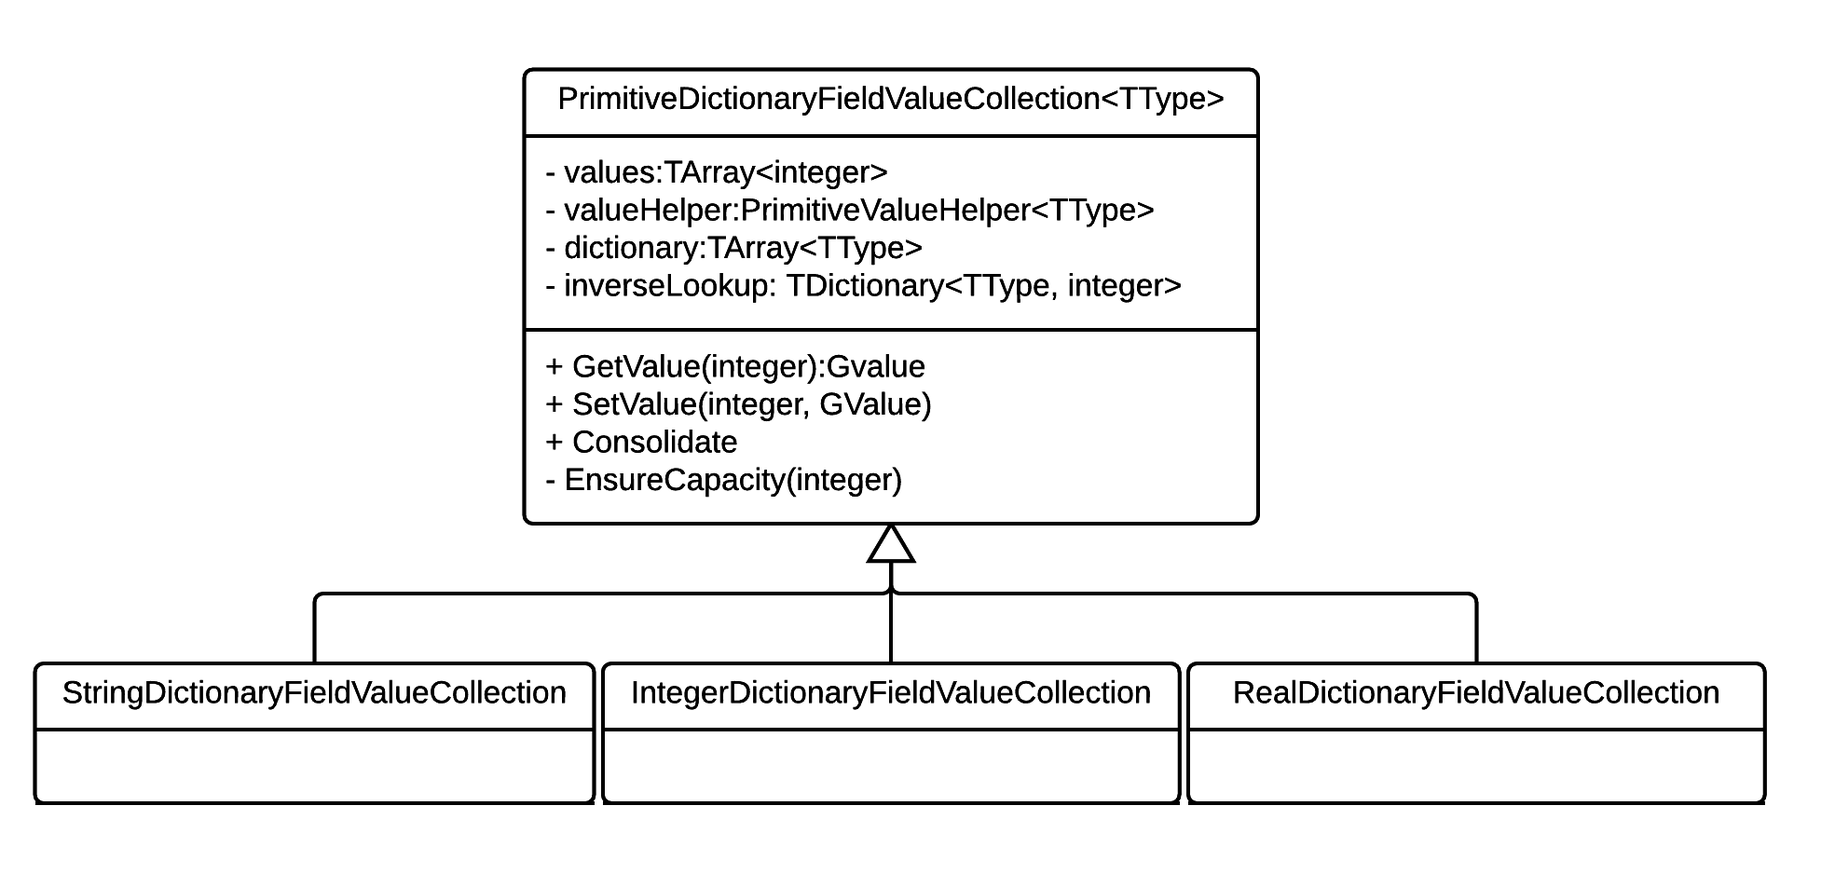
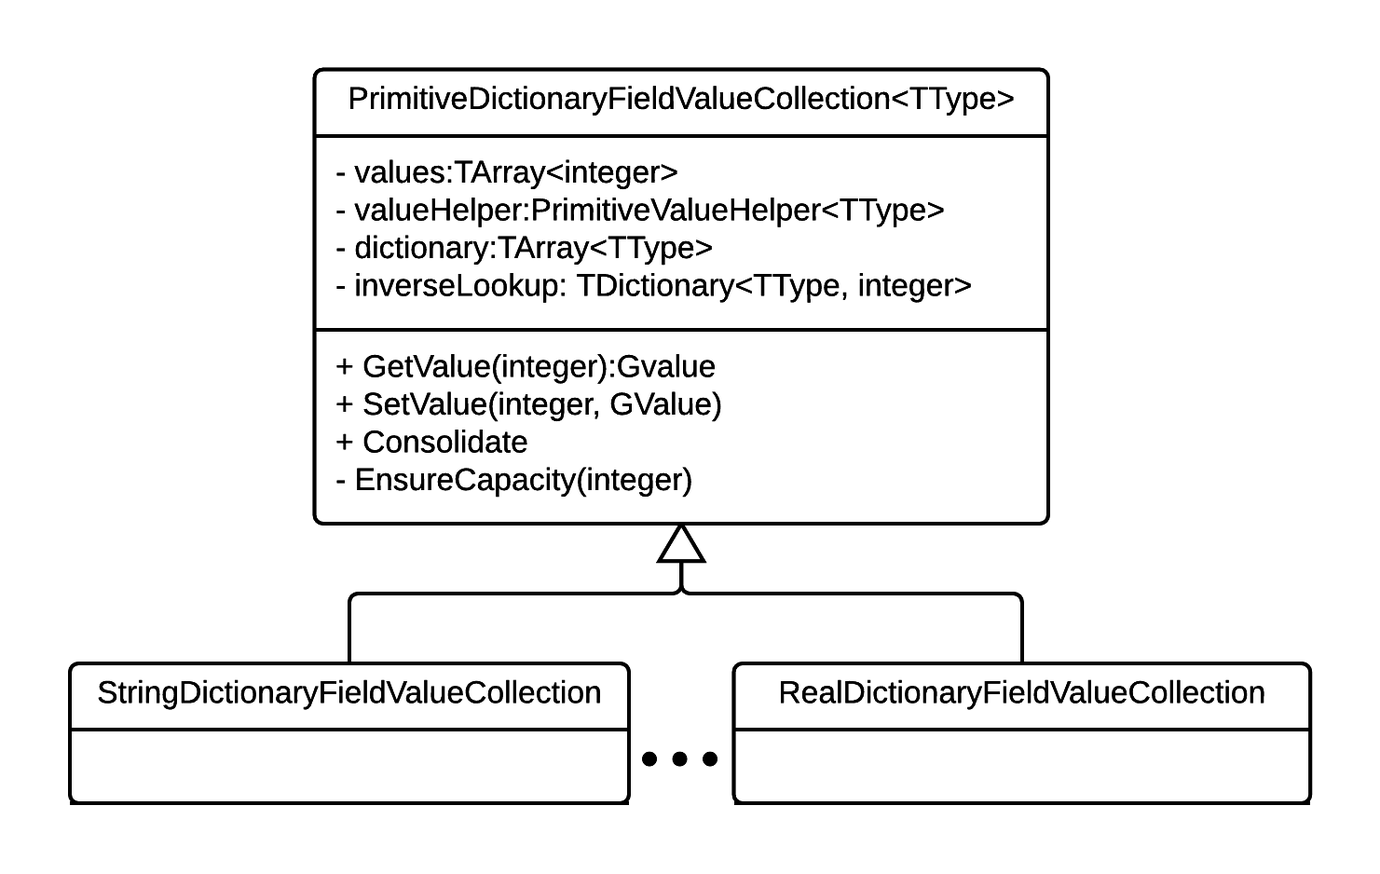
tete

diff --git a/implementation/compression.tex b/implementation/compression.tex
@@ -14,54 +14,54 @@ One such light-weight compression technique, is \textit{dictionary encoding}, wh
 
 The second technique we implement in this iteration is bitpacking, which we studied in Section \ref{sec:Bitpacking}. In this compression scheme, no more bits than needed are used to store a value. This improves cache hit-rate and enables SIMD query processing. Bitpacking and dictionary encoding are commonly used in conjunction, and this what we will do in this iteration.
 
-Last, we explore two techniques to save even more memory in \gap. The first is a technique we denote as \textit{null-pointer compression}. It is based on the observation that a \cn{CompositionObject} has several properties, properties that are commonly \nil. Thus, by moving the properties to the column store, we may save space by not allocating any values unless they are set. The second technique we apply is to compress the residual properties in a \cn{packed record}.
+Last, we explore two techniques to save even more memory in \gap. The first is a technique we denote as \textit{null-pointer compression}. It is based on the observation that a \cn{CompositionObject} has several properties, properties that are commonly \null. Thus, by moving the properties to the column store, we may save space by not allocating any values unless they are set. The second technique we apply is to compress the residual member variables in the \cn{CompositionObject} class with a \cn{packed record}.
 
 \section{Implementation}
 \label{sec:Implementation}
-In this section, we explain how compression is implemented by creating new \cn{FieldValueCollectionBase} subclasses and modifying the column store. We start with dictionary encoding and bitpacking. Then we proceed with null-pointer compression and property packing.
+In this section, we explain how compression is implemented by creating new \cn{FieldValueCollectionBase} subclasses for dictionary encoding. Then we proceed with null-pointer compression and property packing.
 
 \subsection{Dictionary Encoding}
-\label{sub:Dictionary Encoding}
+\label{compression:dictionary-encoding}
 % Short introduction on DE
-In Section \ref{sec:Dictionary Encoding}, we saw that dictionary encoding is commonly used to store data in a database, especially read-optimized ones. Such encoding has several benefits, with the main being compression. Some operations are also speeded up by this storage format, especially string predicates. To do a select operation on a dictionary encoded column, the dictionary needs only to be scanned once to find the keys corresponding to the query, then the integer array is scanned. This reduces expensive string operations into cheap integer comparisons.
+In Section \ref{sec:Dictionary Encoding}, we saw that dictionary encoding is commonly applied as a compression technique in OLAP-databases. There are many benefits with dictionary encoding in addition to a reduction in memory usage, like improved data locality and query speedup. For instance, expensive string operations can be reduced to cheap integer comparisons by scanning the dictionary for keys first.
 
-In a dictionary encoded column, the dictionary can be structured either for read or write performance. For read operations, there is a lookup from a dictionary index and the actual value. For such operations, implementing the dictionary as a list would suffice, adding new keys to the end of the list as they appear. Hence, lookups happen in constant time. However, with this implementation, assuming that the dictionary is not sorted, a linear search through the dictionary is triggered every time there is a write operation to the column, because the correct dictionary key must be found. 
+In a dictionary encoded column, the dictionary can be structured either for read or write performance, or both. For read performance, there must exist a lookup from a dictionary index to the actual value. For such lookup, a simple index-based list suffices, adding new keys to the end of the list as they appear. Hence, value lookups happen in constant time. However, with this implementation, a linear search to find the correct key in the dictionary is performed every time there is a write operation on the column. Here, an inverse lookup from dictionary values to indexes would be beneficial.
 
-\afigure{img/dict-inverse.png}{Dictionary Encoding. There exists a constant time lookup mechanism not only from dictionary keys to values, but also a lookup mechanism from values to dictionary keys.}{fig:dict-inverse}{0.8}
-Since data sources in \gap~can be used in many different places, some write-intense, others read-intense, we implement a dictionary that can do both read and write operations in constant time. This comes at the cost of increased memory; a mapping from values to keys must be maintained. This is depicted in Figure \ref{fig:dict-inverse}. For the value-to-key lookup, a dictionary is used, such that lookups can be performed in constant time. When \fn{Consolidate} is called, the inverse dictionary lookup is discarded to save memory. 
+\afigure{img/dict-inverse.png}{Dictionary encoded column implementation. Both value buffer and dictionary are stored using \cn{TArray}. To ensure constant time write operations, we keep an inverse lookup from values to dictionary keys, which is implemented as a \cn{TDictionary}. Read-only data sources may drop the inverse lookup to save memory.}{fig:dict-inverse}{1.0}
+Since \gap~must handle both transactional and analytical workloads, we implement a dictionary encoded column with both lookup structures, such that both read and write operations happen in constant time. We have depicted this in Figure \ref{fig:dict-inverse}. However, keeping both structures comes at the cost of increased memory. Thus, for read-only workloads, like \gd, we would like to discard the inverse lookup. We implement this in \fn{Consolidate}; when this function is called, we deallocate the inverse lookup.
 
-The integer array, or value buffer, uses the same growth strategy as previous implementations. Like \cn{FieldValueCollection} and \cn{PrimitiveFieldValueCollection}, buffers are doubled on index overflow. The \fn{Consolidate} resizes the key array to the correct size after the data source has been loaded.
+\afigure{img/PrimitiveDictionaryFieldValueCollection.png}{\cn{PrimitiveDictionaryFieldValueCollection} class diagram. The class inherits from \cn{FieldValueCollectionBase}, and has a subclass for each supported primitive type.}{fig:PrimitiveDictionaryFieldValueCollection}{0.9}
+We implement a new class, \cn{PrimitiveDictionaryFieldValueCollection}, to be our dictionary encoded column class. The class uses \cn{TArray} for both values, or dictionary keys, and the dictionary itself. We chose this array type based on the performance assessment from Appendix \ref{app:array-types}. For the inverse lookup, we use a \cn{TDictionary}. For different primitive types, \cn{PrimitiveDictionaryFieldValueCollection} has a subclass for each supported type which uses the same value helper as we introduced in the previous section. \cn{PrimitiveDictionaryFieldValueCollection} extends \cn{FieldValueCollectionBase}. A full class diagram is shown in Figure \ref{fig:PrimitiveDictionaryFieldValueCollection}.
 
-\afigure{img/PrimitiveDictionaryFieldValueCollection.png}{\cn{PrimitiveDictionaryFieldValueCollection} class diagram. The class inherits from \cn{FieldValueCollectionBase}.}{fig:PrimitiveDictionaryFieldValueCollection}{1.0}
-We chose to implement the dicitonary and inverse lookup using \cn{TArray} and \cn{TDictionary} respectively. We also chose to store values as their primitive implementation, like we investigated in Chapter \ref{chap:storage-format}. The class inherits from \cn{FieldValueCollectionBase}, and uses the same primitive value helper delegate class as \cn{PrimitiveDictionaryFieldValueCollection}.
+The array with dictionary keys, or value buffer, uses the same growth strategy as we discussed in Section \ref{sub:Growth Strategy}. Like \cn{FieldValueCollection} and \cn{PrimitiveFieldValueCollection}, the value buffer is doubled on index overflow, and the \fn{Consolidate} method resize the column to the exact data source size.
 
 \subsection{Bitpacking}
 \label{sub:Bitpacking}
+
 % Short introduction on bp
 Bitpacking is a compression technique where values are stored with no more bits than needed. As we saw in Section \ref{sub:Dictionary Encoding and Bitpacking}, dictionary encoding and bitpacking goes hand in hand. We, therefore, implement bitpacking in our dictionary encoded columns to save memory.
 
 % Main implementation
-\afigure{img/bp-overflow.png}{Bitpacking overflow. First, the value buffer is rebuilt to accomodate a new key in the dictionary that caused an overflow. Here, the array contents are copied to another buffer with extra padding. Second, if needed, a new cell is added for the new value.}{fig:bp-overflow}{1.0}
-The value buffer is implemented as an array of 64-bits values which each value is denoted as a \textit{cell}. Unlike previous column implementations, a cell is added one at a time, instead of the doubling strategy. This was done for simplicity reasons. Depending on the number of bits used per value, this means that more values can be added per reallocation. On dictionary overflow, the new number of bits per value is calculated, and the entire value buffer is rebuilt. Both buffer and dictionary overflow is depicted in Figure \ref{fig:bp-overflow}. Like the non-packed version, \cn{PrimitivePackedDictionaryFieldValueCollection} uses an inverse lookup which are discarded on \fn{Consolidate}.
+\afigure{img/bp-overflow.png}{Bitpacked value buffer. First, we see a dictionary overflow, where the value buffer is rebuilt with extra padding. Second, if needed, a new cell is added to hold the new value.}{fig:bp-overflow}{1.0}
+We implement the value buffer as an array of 8 byte chucks, where we denote each chunk as a \textit{cell}. Unlike previous column implementations, a cell is added one at a time, instead of using a doubling strategy. We did this for simplicity reasons, and, since each cell contains multiple values, array reallocation happens less frequent than for an uncompressed column.
 
-% Dictionary overflow
-One of the main challenges with bitpacking, is word alignment. If keys are allowed to cross word boundaries, not only performance might degrade, but it increase implementation and code complexity. Therefore, we take a simpler approach, where the number of bits used to store each value must be a power of 2. As seen in Figure \ref{fig:bp-overflow}, a dictionary overflow causes the bits per value to go from two to four to avoid values stored across word boundaries.
+One of the main challenges with bitpacking, is word alignment. If keys are allowed to cross machine word boundaries, not only performance will suffer, but the implementation complexity increase drastically. Therefore, we take a simpler approach, where the number of bits used to store each value must be a power of 2. As seen in Figure \ref{fig:bp-overflow}, a dictionary overflow causes the bits per value to go from two to four to avoid values stored across machine word boundaries. When a dictionary overflows, the columns rebuilds the entirev value buffer using the new number of bits per value.
 
-\afigure{img/PrimitivePackedDictionaryFieldValueCollection.png}{\cn{PrimitivePackedDictionaryFieldValueCollection} class diagram. The class is very similar to \cn{PrimitiveDictionaryFieldValueCollection}, but it has a different storage structure for its values.}{fig:PrimitivePackedDictionaryFieldValueCollection}{0.7}
-The bitpacked column class was implemented using a \cn{TArray<UInt64>} for storing data. Like the non-packed version, a \cn{TArray} was used for the dictionary and \cn{TDictionary} for the inverse lookup. In addition to this, it holds some state regarding the bitpacking, and a private function \fn{IncreaseDictionaryCapacity} which rebuilds the value buffer on dictionary overflow. The class diagram is seen in Figure \ref{fig:PrimitivePackedDictionaryFieldValueCollection}.
+\afigure{img/PrimitivePackedDictionaryFieldValueCollection.png}{\cn{PrimitivePackedDictionaryFieldValueCollection} class diagram. The class is very similar to \cn{PrimitiveDictionaryFieldValueCollection}, but it has a different storage structure for its values and holds some state variables needed for bitpacking.}{fig:PrimitivePackedDictionaryFieldValueCollection}{0.7}
+We name our bitpacked dictionary encoded column class \cn{PrimitivePackedDictionaryFieldValueCollection}, and, like always, the class inherits from \cn{FieldValueCollectionBase}. The value buffer was implemented using a \cn{TArray<UInt64>}. Like the non-packed version, a \cn{TArray} was used for the dictionary and \cn{TDictionary} for the inverse lookup. In addition to this, the class holds some state regarding the bitpacking, and a private function \fn{IncreaseDictionaryCapacity} which rebuilds the value buffer on dictionary overflow. The class diagram is seen in Figure \ref{fig:PrimitivePackedDictionaryFieldValueCollection}.
 
-\missingfigure{Figur om hvordan man henter ut verdier med masken?}
+\subsection{Null Pointer Compression}
+\label{sub:Null Pointer Compression}
 
-\subsection{Null-Pointer Compression}
-\label{sub:Null-Pointer Compression}
-\afigure{img/null-pointer-compression.png}{Null-pointer compression. Based on the observation that most \cn{CompositionObject} properties are normally \texttt{null}, data can be compressed, since columns are not created before the properties are set.}{fig:null-pointer-compression}{0.7}
-So far, we have compressed data from the Information System and Information System Development Layers. However, there are several other structures used by \cn{CompositionObject}s which are used in the Method Engineering layer. These structures include lists of data validation and integrety errors, formatting rules, and more. These attributes are not fundamentally different than attributes from the other model-driven engineering layers, which means we are able to put these pointers into our column store. Although one might initially think that we have only moved the problem, and that the pointers now are stored in the column store instead of at object-level, the compression is based on the observation that these pointers are normally \texttt{null}. This means that these columns does not need to be allocated before a value is actually set. An illustration of this is seen in Figure \ref{fig:null-pointer-compression}.
+\afigure{img/null-pointer-compression.png}{Null pointer compression. Based on the observation that most \cn{CompositionObject} properties are normally \nil, data can be compressed by not allocating value buffers until the properties are set.}{fig:null-pointer-compression}{0.9}
 
-To enable null pointer compression, we implement a new generic column structure named \cn{DefaultObjectList<TType>}. This is an array structure that can be instantiated with any class type, that will return \texttt{nil} if no values are set. If values are set, the array is allocated. The \cn{CompositionValueCollection} are extended with such attributes for all properties needed in the \cn{CompositionObject}s with corresponding get and set methods that requires datasource index as input.
+So far, we have compressed data from the Information System and Information System Development Layers. However, there are several other structures that belong to \cn{CompositionObject}s which are used in the Method Engineering layer. These structures include lists of data validation and integrity errors, formatting rules, and more. Our observation is that these attributes are not fundamentally different from attributes from the other model-driven engineering layers, which means we are able to put these pointers into our column store too. Although one might initially think that we have only moved the problem and that the pointers now are stored in the column store instead in the composition objects, we may save memory based on the observation that these pointers are usually \nil. In other words, these pointer columns do not need to be allocated before any values are set. We illustrate this scenario in Figure \ref{fig:null-pointer-compression}.
+
+To enable null pointer compression, we implement a new generic column structure named \cn{DefaultObjectList<TType>}. This class is an array structure that can be instantiated with any class type that will return \nil~if no values are set. If values are set, the array, or column, is allocated to accommodate these values. We extend the base column store class, \cn{CompositionValueCollection}, with one such \cn{DefaultObjectList} for each pointer variable in \cn{CompositionObject}. Hence, objects must now query the column store and provide a data source index to access structures used in the method engineering layer, like validation errors and formatting rules. A total of six member variables from \cn{CompositionObject} was moved to the column store.
 
 \subsection{Property Packing}
 \label{sub:Property Packing}
-\begin{delphicode}{Structure with packed data.}{lst:packed-struct}
+\begin{delphicode}{Structure with packed data for \cn{CompositionObject}.}{lst:packed-struct}
 PackedComObjData = packed record
     modifyCount,
     datasourceIndex    : integer; 
@@ -69,38 +69,46 @@ PackedComObjData = packed record
     filterStatus       : EFilterStatus;
 end;
 \end{delphicode}
-Some properties on a \cn{CompositionObject} are always set. This include a modified counter, some state variables, and of course the data source index. To reduce the memory footprint used by these attributes, they are packed in a struct using \delphi's \fn{packed} keyword. See Listing \ref{lst:packed-struct}. This packs the data and tells the compiler to disregard word boundaries \cite{noauthor_undated-vu}.
+In the last section, we saw how null pointers could be compressed by moving member variables in \cn{CompositionObject} to the column store. However, the \cn{CompositionObject} class has some value type properties that are always set, which includes a modify count, some state variables, and the much-needed data source index. Since these variables are always set, they cannot be compressed with null pointer compression.
 
-For this to work, the attributes is removed from the \cn{CompositionObject} class and moved to a \cn{PackedComObjData} record type. All read and write properties in \cn{CompositionObject} is rewritten to access this new structure.
+To reduce the memory footprint used by these attributes, we compress them in a \delphi~record type with the \vn{packed} keyword. This keyword tells the compiler to pack data and disregard word boundaries \cite{noauthor_undated-vu}. Thus, we take all the residual properties from the \cn{CompositionObject} class and move it to a \cn{PackedComObjData} record type. Listing \ref{lst:packed-struct} shows the structure.
 
-After applying both null-pointer compression from Section \ref{sec:Null-Pointer Compression}, a \cn{CompositionObject} has no attributes except for a pointer to the column storage and a packed struct with essential state data. \todo{Vet dette ikke er helt sant, men kan jeg skrive det?}
+As a result of both null pointer compression from Section \ref{sec:Null Pointer Compression} and the property packing from this section, a \cn{CompositionObject} has no member variables except for the \cn{PackedComObjData} record and a pointer to the column store.
 
 \section{Results}
 \label{sec:Results}
-We test the changes from this iteration with Benchmark \ref{bm:q1} and Benchmark \ref{bm:write}. Like the previous two iterations, we are curious to see how compression techniques affect memory consumption, load time, read performance, and write performance. 
+We test the changes from this iteration with the \tpchdl, Benchmark \ref{bm:q1} and the \textit{Write Benchmark}, Benchmark \ref{bm:write}. Like the previous two iterations, we are curious to see how compression techniques affect memory consumption, load time, read performance, and write performance. 
+
+
 
 \begin{table}
     \begin{tabularx}{\textwidth}{X | X X}
         & Distinct Values & Dictionary Encoding? \\ 
         \hline
         \hline
-        LINEITEMKEY & 600,000 & No \\
-        LINESTATUS & 3 & Yes \\
-        RETURNFLAG & 3 & Yes \\
-        SHIPDATE & 2526 & Yes \\
-        QUANTITY & 50 & Yes \\
-        EXTENDEDPRICE & 598,966 & No \\
-        DISCOUNT & 11 & Yes \\
-        TAX & 9 & Yes
+        \texttt{LINEITEMKEY} & 600,000 & No \\
+        \texttt{LINESTATUS} & 3 & Yes \\
+        \texttt{RETURNFLAG} & 3 & Yes \\
+        \texttt{SHIPDATE} & 2526 & Yes \\
+        \texttt{QUANTITY} & 50 & Yes \\
+        \texttt{EXTENDEDPRICE} & 598,966 & No \\
+        \texttt{DISCOUNT} & 11 & Yes \\
+        \texttt{TAX} & 9 & Yes
     \end{tabularx}
-    \caption{Column selection for Benchmark \ref{bm:q1}. Low-cardinality columns are dictionary encoded, while the others are not. The numbers are based on Scaling Factor 0.1.}
+    \caption{Column selection for Benchmark \ref{bm:q1}. Low-cardinality columns are dictionary encoded, while the others are not. The numbers are based on Scaling Factor SF0.1, where there is a total of 600,000 \lineitem~rows.}
     \label{tab:column-selection}
 \end{table}
 
-Like we read in Section \ref{sec:Dictionary Encoding}, dictionary encoding is only effective when there is a small number of distinct values compared to the number of total values. Hence, not all columns in the \textit{TPC-H Q1 Data Load Benchmark} should be encoded with dictionary encoding. Therefore, we picked certain \lineitem~properties by hand to be dictionary encoded, based on the column cardinality in the \lineitem~table in the \tpch. The dictionary encoded columns with cardinalities are shown in Table \ref{tab:column-selection}, and indicates that most columns benefit from dictionary encoding.
+We read in Section \ref{sec:Dictionary Encoding} that dictionary encoding is only effective when there is a small number of distinct values compared to the number of total values. Hence, not all columns in the \tpchdl~should be encoded with dictionary encoding. Therefore, we pick certain \lineitem~properties by hand to be dictionary encoded, based on the column cardinality in the \lineitem~table. Table \ref{tab:column-selection} shows the results, and indicates that most columns benefit from dictionary encoding.
 
-In this iteration, we test four different configurations: Dictionary encoding, dictionary encoding with raw value load, dictionary encoding with bitpacking, and dictionary encoding with bitpacking, null-pointer compression and property packing. For Benchmark \ref{bm:q1}, we test both SF0.01 and SF0.1.
-
+In this iteration, we test four new configurations in addition to the primitive column configuration from the previous chapter:
+\begin{itemize}
+    \item \textbf{Primitive} is the configuration from the last iteration, which is column store with non-compressed, primitive values.
+    \item \textbf{Dictionary} uses dictionary compression from Section \ref{compression:dictionary-encoding]}. No bitpacking.
+    \item \textbf{Dictionary /w Raw Load} is the same dictionary compression configuration as above, but with raw XML string value load as outlined in Section \ref{storage-format:raw-xml}.
+    \item \textbf{Packed Dictionary} is the bitpacked dictionary compression from Section \ref{compression:bitpacking}.
+    \item \textbf{Full Compression} uses bitpacked dictionary as well as null pointer compression and property packing.
+\end{itemize}
 
 \subsection{TPC-H Q1 Data Load Benchmark}
 Benchmark \ref{bm:q1}, the \textit{TPC-H Q1 Data Load Benchmark}, was run with all three compression configurations. In addition to this, dictionary encoding was run with raw value load, as explained in Section \ref{sec:Avoiding GValues at Load Time}. Both scaling factors were used for the tests. Like the previous chapters, all tests were run three times per configuration. There was low variance in the results, and no single measurement was more than 15 \% different from the average value.

diff --git a/implementation/storage-format.tex b/implementation/storage-format.tex
@@ -54,7 +54,7 @@ Even though they are not considered as simple data types in \delphi, we apply th
 To make the new \cn{PrimitiveFieldValueCollection} class work, we must pick the correct primitive type subclass for the different data descriptors in a data source. This is the responsibility of the column store. We extend \cn{CompositionValueCollection} with a \fn{GetFieldValueCollection} which takes a data descriptor as an input and returns the correct column. In this method, the data descriptor is queried for its data type, and it picks the correct \cn{PrimitiveFieldValueCollection} subclass. If no matching primitive data type column is found, the method falls back on the original \cn{FieldValueCollection} from Chapter \ref{chap:column-store}.
 
 \subsection{Loading Raw XML Values Directly}
-\label{sub:Loading Raw XML Values Directly}
+\label{storage-format:raw-xml}
 \begin{figure}
     \centering
     \begin{subfigure}{\textwidth}

diff --git a/misc/vars.tex b/misc/vars.tex
@@ -24,6 +24,7 @@
 \newcommand{\mdd}{\term{Model-Driven Development}}
 \newcommand{\mde}{\term{Model-Driven Engineering}}
 \newcommand{\nil}{\vn{nil}}
+\newcommand{\nul}{\vn{null}}
 \newcommand{\lineitem}{\texttt{LINEITEM}}
 \newcommand{\tpchdl}{\textit{TPC-H Q1 Data Load Benchmark}}
 
